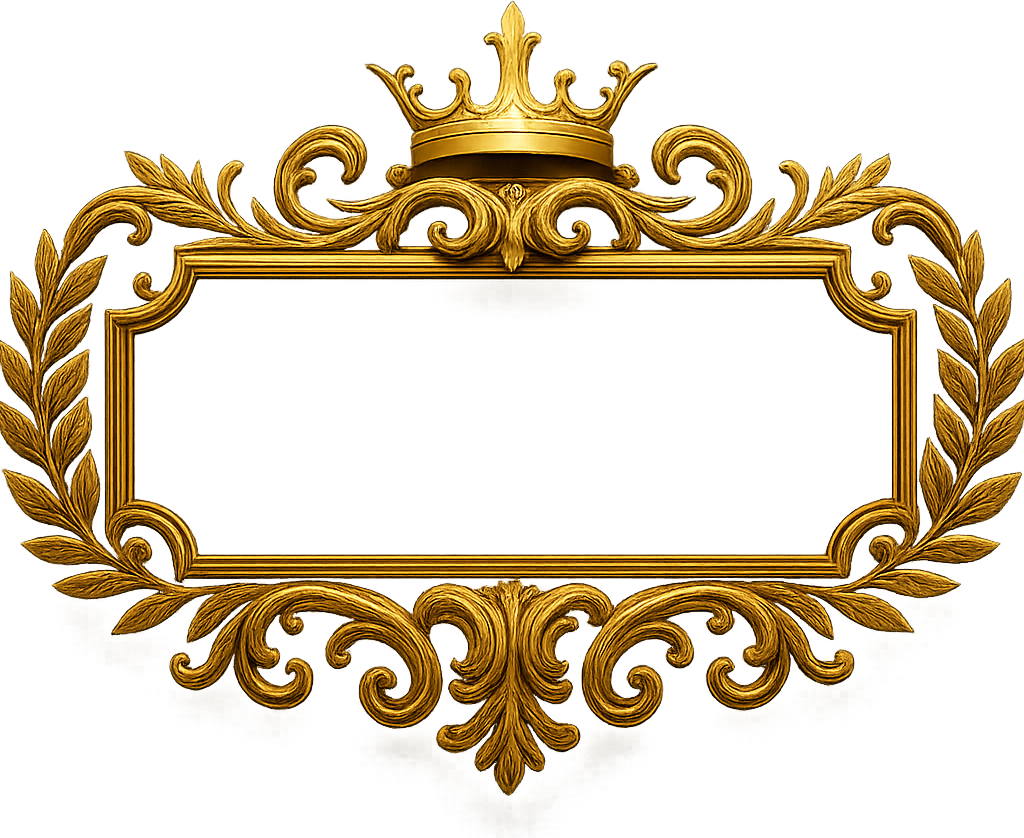
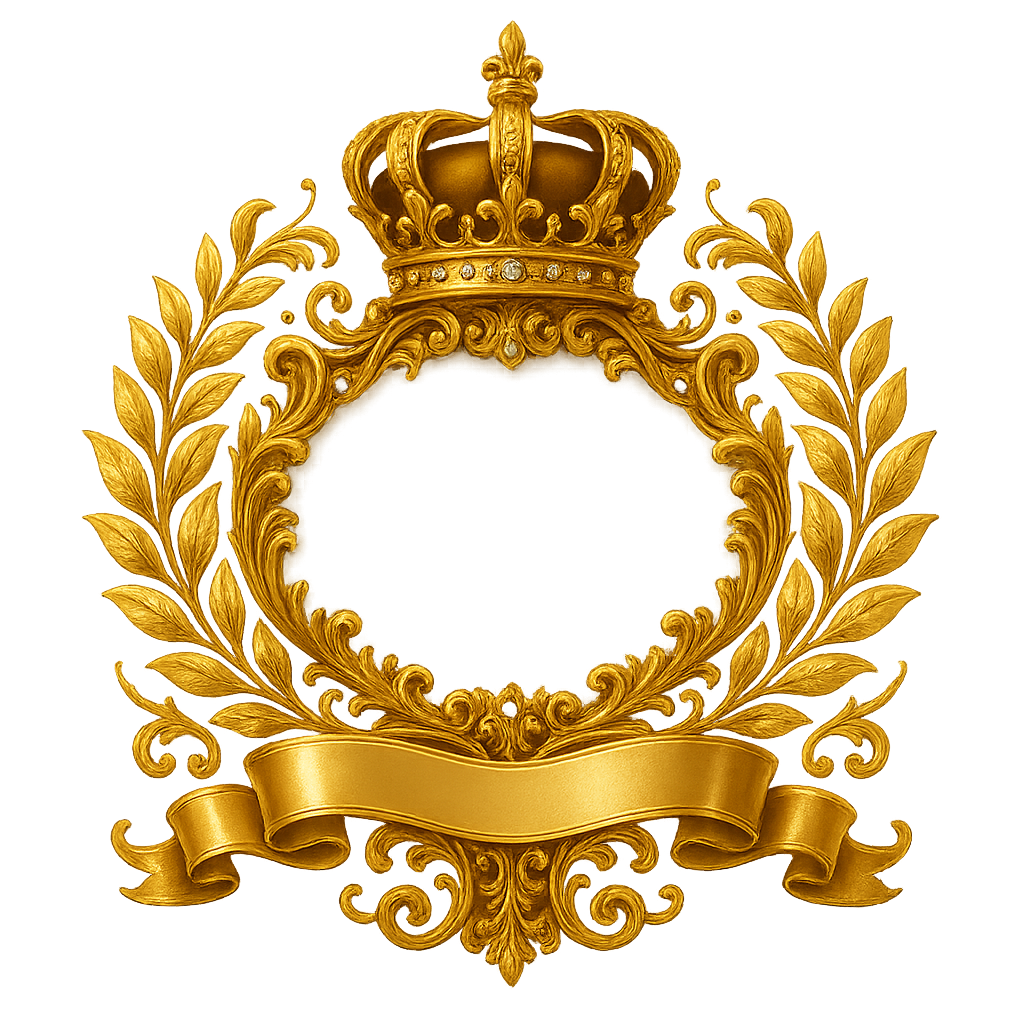
feat: 루디브리엄 배경+화려한 우승자 프레임 / TOP3 포디움 / 대문 업로드
- 배경을 루디브리엄 토이타운 일러스트(황금 시계탑·블록·구름)로 적용(litellm 생성)
- 전시즌 우승자 프레임을 더 화려한 금박 월계관+왕관+리본으로 교체, 이름 개구부 정위치
- 스코어보드 TOP3를 시상대(2·1·3 배치·단 높낮이·입체 금은동 숫자)로 표현, 4등↓는 리스트
- 로비 대문 이미지를 관리자 모드에서 업로드(자동 축소 저장·전원 공유)
- 디펜딩 챔피언 포디움 슬롯 금장 유지

diff --git a/index.html b/index.html
@@ -25,9 +25,9 @@
       font-family: "Jua", -apple-system, BlinkMacSystemFont, "Apple SD Gothic Neo", "Noto Sans KR", sans-serif;
       -webkit-text-size-adjust: 100%;
       background:
-        radial-gradient(circle at 12% 8%, rgba(255,255,255,.9) 0 4px, transparent 5px) 0 0/90px 90px,
-        radial-gradient(circle at 70% 40%, rgba(255,255,255,.7) 0 3px, transparent 4px) 0 0/120px 120px,
-        linear-gradient(180deg, var(--sky1) 0%, var(--sky2) 45%, var(--sky3) 100%) fixed;
+        linear-gradient(180deg, rgba(174,228,255,.25), rgba(233,215,255,.35)),
+        url('assets/bg-ludibrium.png') center top / cover fixed,
+        linear-gradient(180deg, var(--sky1), var(--sky3));
     }
     .wrap { max-width: 760px; margin: 0 auto; padding: 0 16px 56px; }
 
@@ -72,7 +72,7 @@
     #defenderBox .dlabel { text-align: center; color: var(--gold2); font-size: .92rem; letter-spacing: .04em; margin-bottom: 6px; }
     #defenderBox .frame { position: relative; }
     #defenderBox .frame img { width: 100%; display: block; filter: drop-shadow(0 8px 18px rgba(120,90,20,.4)); }
-    #defenderBox .name { position: absolute; left: 50%; top: 45%; transform: translate(-50%, -50%); width: 62%; text-align: center; }
+    #defenderBox .name { position: absolute; left: 50%; top: 51%; transform: translate(-50%, -50%); width: 40%; text-align: center; }
     #defenderBox .name .nm { font-size: clamp(1.1rem, 5.5vw, 1.85rem); color: #fff; letter-spacing: .02em; text-shadow: 0 2px 3px #7a4e00, 0 0 12px rgba(255,220,120,.7); line-height: 1.1; }
     #defenderBox .name .disc { font-size: .8rem; color: #fff6dc; margin-top: 3px; font-family: "Gaegu", sans-serif; }
     #defenderBox .name .tbd { color: #fff6e6; }
@@ -102,6 +102,35 @@
     /* 전대회 우승자(디펜딩 챔피언) 금장 슬롯 */
     .score .row.champ { background: linear-gradient(90deg, rgba(244,184,46,.28), rgba(244,184,46,.06)); box-shadow: inset 5px 0 0 var(--gold); }
     .score .row .crown { filter: drop-shadow(0 0 4px rgba(244,184,46,.75)); margin-left: 2px; }
+
+    /* TOP3 시상대(포디움) */
+    #podiumBox { margin: 0 0 14px; }
+    .podium3 { display: flex; align-items: flex-end; justify-content: center; gap: 10px; }
+    .podium3 .col { flex: 1 1 0; max-width: 33%; display: flex; flex-direction: column; align-items: center; }
+    .podium3 .col.empty-col { visibility: hidden; }
+    .podium3 .who { font-size: 1rem; color: var(--ink); text-align: center; line-height: 1.15; margin-bottom: 2px; }
+    .podium3 .who small { color: var(--muted); font-size: .7rem; margin-left: 3px; font-family: "Gaegu", sans-serif; }
+    .podium3 .who .crown { filter: drop-shadow(0 0 4px rgba(244,184,46,.8)); }
+    .podium3 .pt { font-size: 1.5rem; color: var(--gold2); line-height: 1; margin-bottom: 4px; font-variant-numeric: tabular-nums; }
+    .podium3 .ctl { display: flex; gap: 5px; margin-bottom: 6px; }
+    .podium3 .ctl button { width: 30px; height: 30px; border-radius: 9px; border: 0; color: #fff; cursor: pointer; font-family: "Jua",sans-serif; box-shadow: inset 0 2px 2px rgba(255,255,255,.4), 0 3px 0 rgba(0,0,0,.18); }
+    .podium3 .ctl button[data-up]{ background: var(--toy-green); }
+    .podium3 .ctl button[data-dn]{ background: var(--toy-red); }
+    .podium3 .ctl button:active { transform: translateY(2px); }
+    /* 받침대 — 순위별 높낮이 다름 */
+    .podium3 .ped { width: 100%; border-radius: 12px 12px 6px 6px; display: grid; place-items: center;
+      background: linear-gradient(180deg, #ffffff, #eef0f6); border: 3px solid #fff;
+      box-shadow: inset 0 3px 4px rgba(255,255,255,.8), 0 6px 0 rgba(120,110,90,.28); }
+    .podium3 .r1 .ped { height: 96px; }
+    .podium3 .r2 .ped { height: 72px; }
+    .podium3 .r3 .ped { height: 54px; }
+    /* 입체 금은동 숫자 */
+    .podium3 .rnum { font-size: 2.9rem; line-height: 1; font-family: "Jua", sans-serif; -webkit-background-clip: text; background-clip: text; color: transparent; }
+    .podium3 .ng { background: linear-gradient(180deg,#fff3b0 10%,#f4c430 45%,#b5841d 90%); text-shadow: 0 2px 1px rgba(120,80,0,.35); }
+    .podium3 .ns { background: linear-gradient(180deg,#ffffff 10%,#cfd6df 45%,#8a94a4 90%); text-shadow: 0 2px 1px rgba(70,80,95,.3); }
+    .podium3 .nb { background: linear-gradient(180deg,#ffd9a8 10%,#cd7f32 45%,#7d4f23 90%); text-shadow: 0 2px 1px rgba(80,45,10,.3); }
+    .podium3 .col.champ .ped { border-color: var(--gold); box-shadow: inset 0 3px 4px rgba(255,255,255,.8), 0 6px 0 var(--gold2), 0 0 14px rgba(244,184,46,.5); }
+    .podium3 .col.champ .who { color: var(--gold2); }
 
     /* 참가자 — 블록 명패 */
     .players { display: grid; grid-template-columns: repeat(auto-fill, minmax(145px, 1fr)); gap: 12px; }
@@ -158,6 +187,11 @@
         <div class="line"><input type="datetime-local" id="aDate"><button class="act" id="aDateSave">저장</button></div>
       </div>
       <div class="grp">
+        <label>로비 대문 이미지 (업로드 시 전원 공유 · 자동 축소 저장)</label>
+        <div class="line"><input type="file" id="aPoster" accept="image/*"><button class="act" id="aPosterReset">기본값</button></div>
+        <p class="hint">큰 이미지는 자동으로 줄여 저장합니다(가로 최대 1100px).</p>
+      </div>
+      <div class="grp">
         <label>참가자 추가</label>
         <div class="line"><input id="aPname" placeholder="이름" style="width:120px"><input id="aPno" placeholder="번호" style="width:70px" inputmode="numeric"><button class="act" id="aPadd">추가</button></div>
         <div id="aPlist"></div>
@@ -171,7 +205,7 @@
     </div>
 
     <!-- 대문 포스터 -->
-    <div class="hero"><img src="poster.png" alt="제2회 호구컵 포스터" /></div>
+    <div class="hero"><img id="heroImg" src="poster.png" alt="제2회 호구컵 포스터" /></div>
 
     <!-- 카운트다운 -->
     <div class="countdown">
@@ -188,6 +222,7 @@
     <!-- 실시간 스코어보드 -->
     <h2 class="sec">🔥 실시간 스코어보드</h2>
     <div id="defenderBox"></div>
+    <div id="podiumBox"></div>
     <div class="score" id="scoreBox"></div>
 
     <!-- 참가자 명단 -->
@@ -232,6 +267,7 @@
   const DEFAULT = {
     edition: 2,
     eventDate: null,
+    poster: null,
     participants: [
       { name:"SANGYUN", no:7 }, { name:"SEOKJUN", no:10 }, { name:"JAEWOOK", no:11 },
       { name:"MUNSEUNG", no:9 }, { name:"WONHYUN", no:8 }, { name:"MINGU", no:6 }
@@ -322,32 +358,61 @@
       ${podium}`;
   }
 
-  function renderScore(){
-    const champ = prevPodium().champ;
-    const champName = champ ? champ.name : null;
-    const list = state.participants.map(p => ({ name:p.name, no:p.no, score: Number(state.scores?.[p.name]||0) }))
+  // 점수 내림차순 정렬된 참가자 목록
+  function sortedScores(){
+    return state.participants.map(p => ({ name:p.name, no:p.no, score: Number(state.scores?.[p.name]||0) }))
       .sort((a,b)=> b.score-a.score);
-    $('scoreBox').innerHTML = list.map((p,i)=>{
-      const rankCell = i < 3
-        ? `<div class="medal ${i===0?'g':i===1?'s':'b'}">${i+1}</div>`
-        : `<div class="rk">${i+1}</div>`;
-      const isChamp = champName && p.name === champName;
+  }
+  function ctlHtml(name){
+    return isAdmin ? `<div class="ctl"><button data-dn="${name}">−</button><button data-up="${name}">＋</button></div>` : '';
+  }
+  function bindBump(container){
+    if (!isAdmin) return;
+    container.querySelectorAll('[data-up]').forEach(b=> b.onclick=()=>{ bump(b.dataset.up, 1); });
+    container.querySelectorAll('[data-dn]').forEach(b=> b.onclick=()=>{ bump(b.dataset.dn, -1); });
+  }
+
+  // TOP3 시상대(포디움) — 2·1·3 배치, 단 높낮이 다름, 입체 금은동 숫자
+  function renderPodium(){
+    const champ = prevPodium().champ; const champName = champ ? champ.name : null;
+    const list = sortedScores();
+    if (!list.length) { $('podiumBox').innerHTML = ''; return; }
+    const slots = [ {p:list[1], rank:2, cls:'s'}, {p:list[0], rank:1, cls:'g'}, {p:list[2], rank:3, cls:'b'} ];
+    $('podiumBox').innerHTML = `<div class="podium3">` + slots.map(s => {
+      if (!s.p) return `<div class="col r${s.rank} empty-col"></div>`;
+      const isChamp = champName && s.p.name === champName;
+      return `<div class="col r${s.rank} ${isChamp?'champ':''}">
+          <div class="who">${isChamp?'<span class="crown">👑</span> ':''}<span class="who-nm">${s.p.name}</span><small>#${s.p.no}</small></div>
+          <div class="pt">${s.p.score}</div>
+          ${ctlHtml(s.p.name)}
+          <div class="ped n${s.cls}"><span class="rnum">${s.rank}</span></div>
+        </div>`;
+    }).join('') + `</div>`;
+    bindBump($('podiumBox'));
+  }
+
+  // 4등 이하 리스트
+  function renderScore(){
+    const champ = prevPodium().champ; const champName = champ ? champ.name : null;
+    const list = sortedScores();
+    const rest = list.slice(3);
+    if (!rest.length) { $('scoreBox').innerHTML = ''; $('scoreBox').style.display='none'; return; }
+    $('scoreBox').style.display='';
+    $('scoreBox').innerHTML = rest.map((p,idx)=>{
+      const i = idx + 3; const isChamp = champName && p.name === champName;
       return `<div class="row ${isChamp?'champ':''}">
-        ${rankCell}
+        <div class="rk">${i+1}</div>
         <div class="nm">${p.name} <small>#${p.no}</small>${isChamp?' <span class="crown">👑</span>':''}</div>
         <div class="pt">${p.score}</div>
-        ${isAdmin?`<div class="ctl"><button data-dn="${p.name}">−</button><button data-up="${p.name}">＋</button></div>`:''}
+        ${ctlHtml(p.name)}
       </div>`;
-    }).join('') || '<div class="empty">참가자가 없습니다.</div>';
-    if (isAdmin) {
-      $('scoreBox').querySelectorAll('[data-up]').forEach(b=> b.onclick=()=>{ bump(b.dataset.up, 1); });
-      $('scoreBox').querySelectorAll('[data-dn]').forEach(b=> b.onclick=()=>{ bump(b.dataset.dn, -1); });
-    }
+    }).join('');
+    bindBump($('scoreBox'));
   }
   function bump(name, delta){
     state.scores = state.scores || {};
     state.scores[name] = Math.max(0, Number(state.scores[name]||0) + delta);
-    renderScore(); save();
+    renderPodium(); renderScore(); save();
   }
 
   function renderPlayers(){
@@ -383,7 +448,10 @@
     $('aClist').querySelectorAll('[data-rc]').forEach(b=> b.onclick=()=>{ state.champions.splice(+b.dataset.rc,1); renderAll(); save(); });
   }
 
-  function renderAll(){ renderClock(); renderDefender(); renderScore(); renderPlayers(); renderChamps(); renderAdmin(); }
+  // 대문 이미지 (업로드본 있으면 그걸로, 없으면 기본 포스터)
+  function renderHero(){ $('heroImg').src = state.poster || 'poster.png'; }
+
+  function renderAll(){ renderHero(); renderClock(); renderDefender(); renderPodium(); renderScore(); renderPlayers(); renderChamps(); renderAdmin(); }
 
   // ---------- 관리자 토글 ----------
   $('adminToggle').onclick = ()=>{
@@ -395,6 +463,27 @@
   $('aDateSave').onclick = ()=>{ const v=$('aDate').value; state.eventDate = v? v : null; renderAll(); save(); };
   $('aPadd').onclick = ()=>{ const n=$('aPname').value.trim(); const no=$('aPno').value.trim(); if(!n) return; state.participants.push({name:n,no:no||'-'}); $('aPname').value=''; $('aPno').value=''; renderAll(); save(); };
   $('aCadd').onclick = ()=>{ const r=$('aCround').value.trim(); const n=$('aCname').value.trim(); if(!r||!n) return; const rk=parseInt($('aCrank').value.trim(),10); state.champions.push({round:+r,rank:(rk>=1&&rk<=3)?rk:1,name:n,discipline:$('aCdisc').value.trim()}); $('aCround').value=''; $('aCrank').value=''; $('aCname').value=''; $('aCdisc').value=''; renderAll(); save(); };
+
+  // 대문 이미지 업로드 — canvas로 축소(가로 최대 1100px, JPEG 0.82) 후 dataURL 저장
+  $('aPoster').onchange = (e)=>{
+    const file = e.target.files && e.target.files[0]; if (!file) return;
+    const reader = new FileReader();
+    reader.onload = () => {
+      const img = new Image();
+      img.onload = () => {
+        const maxW = 1100; const scale = Math.min(1, maxW / img.width);
+        const w = Math.round(img.width*scale), h = Math.round(img.height*scale);
+        const cv = document.createElement('canvas'); cv.width=w; cv.height=h;
+        cv.getContext('2d').drawImage(img, 0, 0, w, h);
+        const dataUrl = cv.toDataURL('image/jpeg', 0.82);
+        if (dataUrl.length > 950000) { alert('이미지가 너무 큽니다. 더 작은 이미지를 사용해 주세요.'); return; }
+        state.poster = dataUrl; $('aPoster').value=''; renderAll(); save();
+      };
+      img.src = reader.result;
+    };
+    reader.readAsDataURL(file);
+  };
+  $('aPosterReset').onclick = ()=>{ state.poster = null; renderAll(); save(); };
 
   // ---------- BGM ----------
   const bgm = $('bgm'); const bgmBtn = $('bgmBtn');
